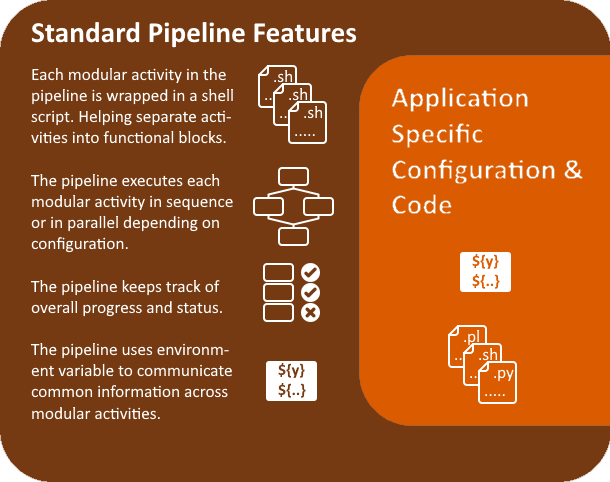
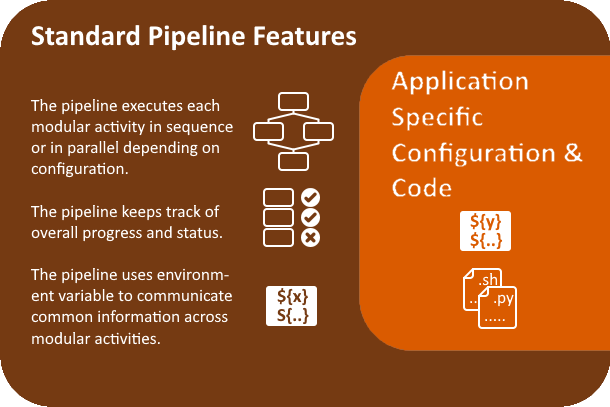
updated infographics and install instructions

diff --git a/docs/installation.md b/docs/installation.md
@@ -1,24 +1,24 @@
-# Installing the pipeline
+# Installation
 
 It is recommended to use a Python virtual environment to reduce the risk of any Python package conflicts.
 
 ### HPC Workstation or Local PC
 
 1. **Create a Python virtual environment**  
-   The Python version must be **Python 3.9** or higher (3.12 was used during development).
+   The Python version must be **Python 3.9** or higher.
     
     - Check the available Python with `python --version`
-    - If required, install or load a compatible python version. Your HPC administrator will be able to help with getting a compatible Python version.
+    - If required, install or load a compatible python version. Your system administrator will be able to help with getting a compatible Python version.
     - then `python -m venv <path-to-venv>` with a path of your choosing.
 
 1. **Source the new newly created python venv**  
     - `source <path-to-venv>/bin/activate` (Assuming you're using Bash or similar. Use the appropriate activate script within that folder depending on your shell)
 
-1. **Clone this repository**
-    - Assuming you have already cloned this repository into a directory, move into the 'root' of this repository. `cd polarroute-pipeline`.
-    - Otherwise `git clone https://github.com/bas-amop/PolarRoute-pipeline.git polarroute-pipeline`
-    - then `cd polarroute-pipeline`
-
-1. **Install requirements**  
-    - Using python pip (inside the created venv) `python -m pip install -r requirements.txt`
-
+1. **Install the simple-action-pipeline (sap) package**
+    - If you simply want to use the simple-action-pipeline 'as-is'.  
+      `python -m pip install sap@git+https://github.com/antarctica/simple-action-pipeline`  
+    - If you want to install an editable version of simple-action-pipeline.   
+      `git clone https://github.com/antarctica/simple-action-pipeline ./simple-action-pipeline`  
+      `cd ./simple-action-pipeline`  
+      `pip install -e .`  
+      Use `pip install -e ".[documentation]"` to edit/contribute to the documentation.  

diff --git a/README.md b/README.md
@@ -1,12 +1,12 @@
 
-![simple action pipeline logo](assets/img/SAP-small.png)
+![simple action pipeline logo](docs/img/SAP-small.png)
 ## simple-action-pipeline (SAP)
 
-A simple pipeline framework for implementing scheduled sequential and parallel actions. Designed around two simple configuration files and implementation of an uncomplicated workflow manager. The simple action pipeline uses the python package "[**Jug**](https://jug.readthedocs.io/en/latest/)" as it's underlying workflow manager. 
+A simple pipeline framework for implementing sequential, parallel and dependant actions. Designed around two yaml configuration files and implementing an uncomplicated workflow manager. The simple action pipeline uses the python package "[**Jug**](https://jug.readthedocs.io/en/latest/)" as it's underlying workflow manager and is provided as a pip installable python3 package. 
 
 The simple action pipeline has some standard features which wrap around any application specific configuration or code.  
 
-![simple action pipeline features](assets/img/pipeline-features.png)
+![simple action pipeline features](docs/img/pipeline-features.png)
 
 ##  
 

diff --git a/docs/implementation.md b/docs/implementation.md
@@ -14,10 +14,10 @@ The [SIIS](https://gitlab.data.bas.ac.uk/MAGIC/SIIS) front-end provides a graphi
 From the three distinct components defined above, this documentation is concerned only with part (1.)  
 
 ## Basic process flow diagram
-![Basic Process](img/polarroute-basics.png)
+![Basic Process](img/pipeline-features.png)
 
 ## Detailed process flow diagram
-![Operational PolarRoute Process](img/pipeline_dfd.png)
+![Operational PolarRoute Process](img/sap-layout.png)
 
 ## History
 During 2024 the previous repository was manually ported from a hierarchy of bash and python scripts to an implementation using a workflow manager. The original scripts remained mostly unchanged although the introduction of the [Jug](https://jug.readthedocs.io/en/latest/) parallelisation package allowed the scripts to execute with strict dependency, monitoring and pipeline control. This was initially achieved using a handbuilt workflow manager script `operational-polarroute.py`.  
